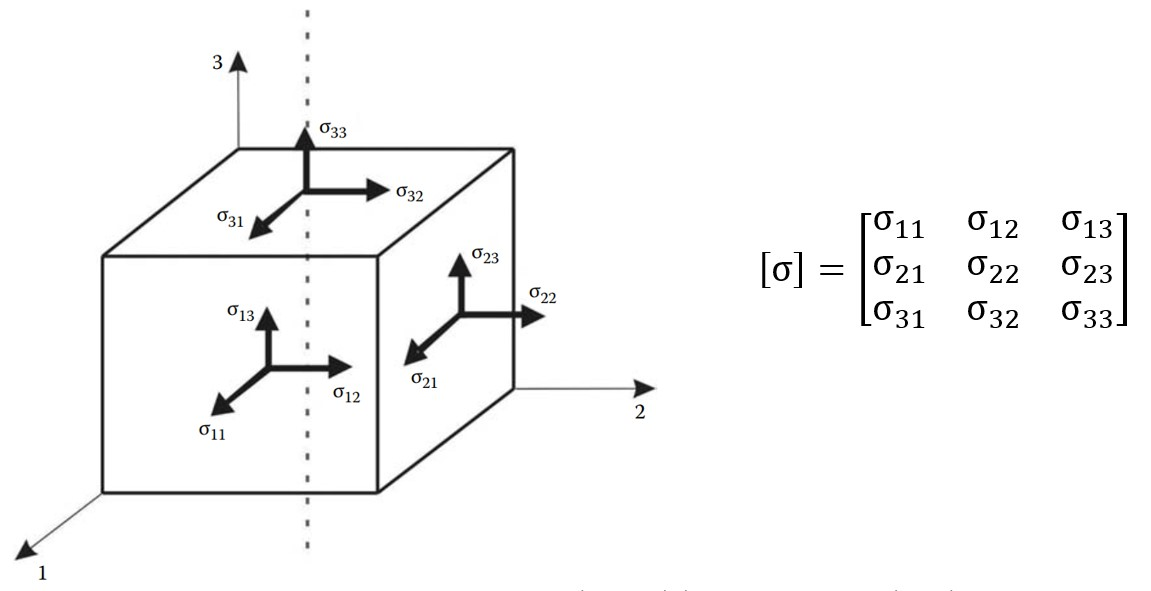
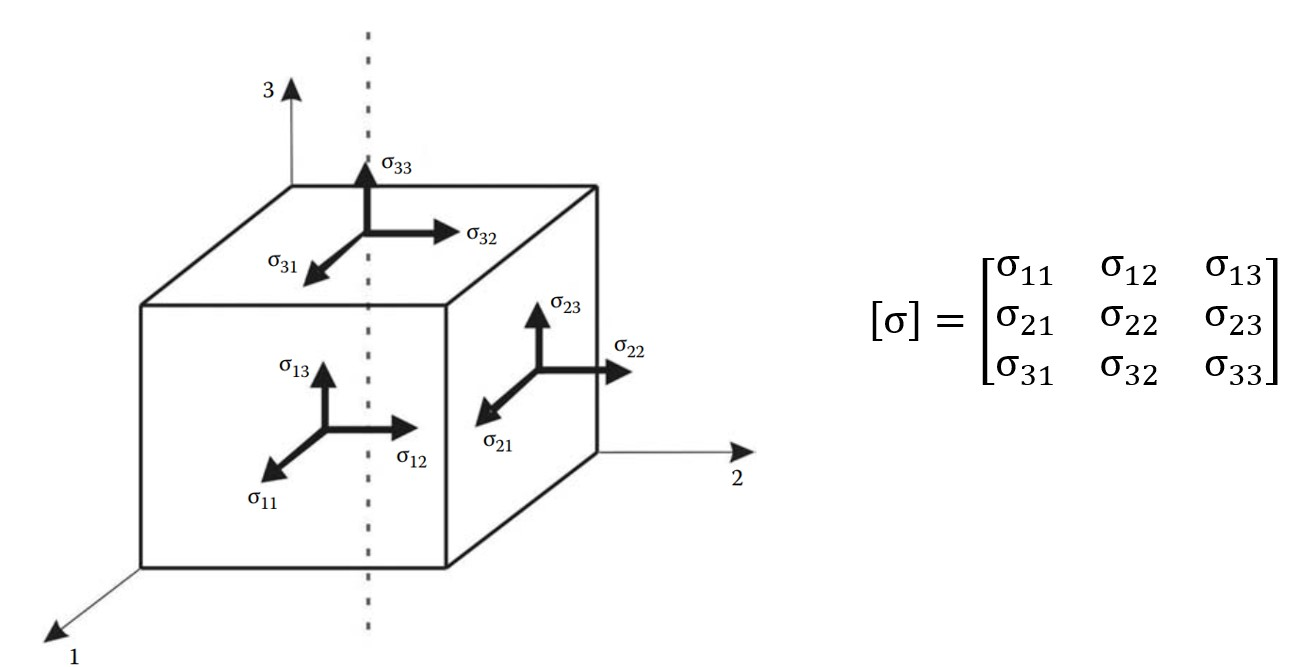
post1

diff --git a/_posts/2025-04-09-post1-stress-tensor.md b/_posts/2025-04-09-post1-stress-tensor.md
@@ -15,9 +15,7 @@ Most readers are already familiar with the well-known cube that illustrates the 
 
 Due to static equilibrium conditions and the absence of body torques, the stress tensor is both real-symmetric. This symmetry ensures that the moments acting on an infinitesimal element are balanced.
 
-$$
-\sigma_{ij} = \sigma_{ji}
-$$
+![blog_post_images](/post_imgs/post1_img2.jpg){:style="display:block; margin-left:auto; margin-right:auto"}
 
 According to Cauchy's stress theorem, if the stress tensor field at a point is known, its stress vector in a plane defined by normal vector {n} can be calculated with the projection of tensor field on the plane.
 
@@ -25,9 +23,7 @@ According to Cauchy's stress theorem, if the stress tensor field at a point is k
 
 The stress vector on a cross-section is referred to as the traction vector, {T}. It is defined as the force vector acting on a cross-section divided by the area. The traction vector generally has both normal and tangential components with respect to the plane; in other words, it is not necessarily aligned with the normal vector.
 
-$$
-\mathbf{T} = [\boldsymbol{\sigma}]^T \mathbf{n} = [\boldsymbol{\sigma}] \mathbf{n}
-$$
+![blog_post_images](/post_imgs/post1_img4.jpg){:style="display:block; margin-left:auto; margin-right:auto"}
 
 Principal Stress
 ---------------------
